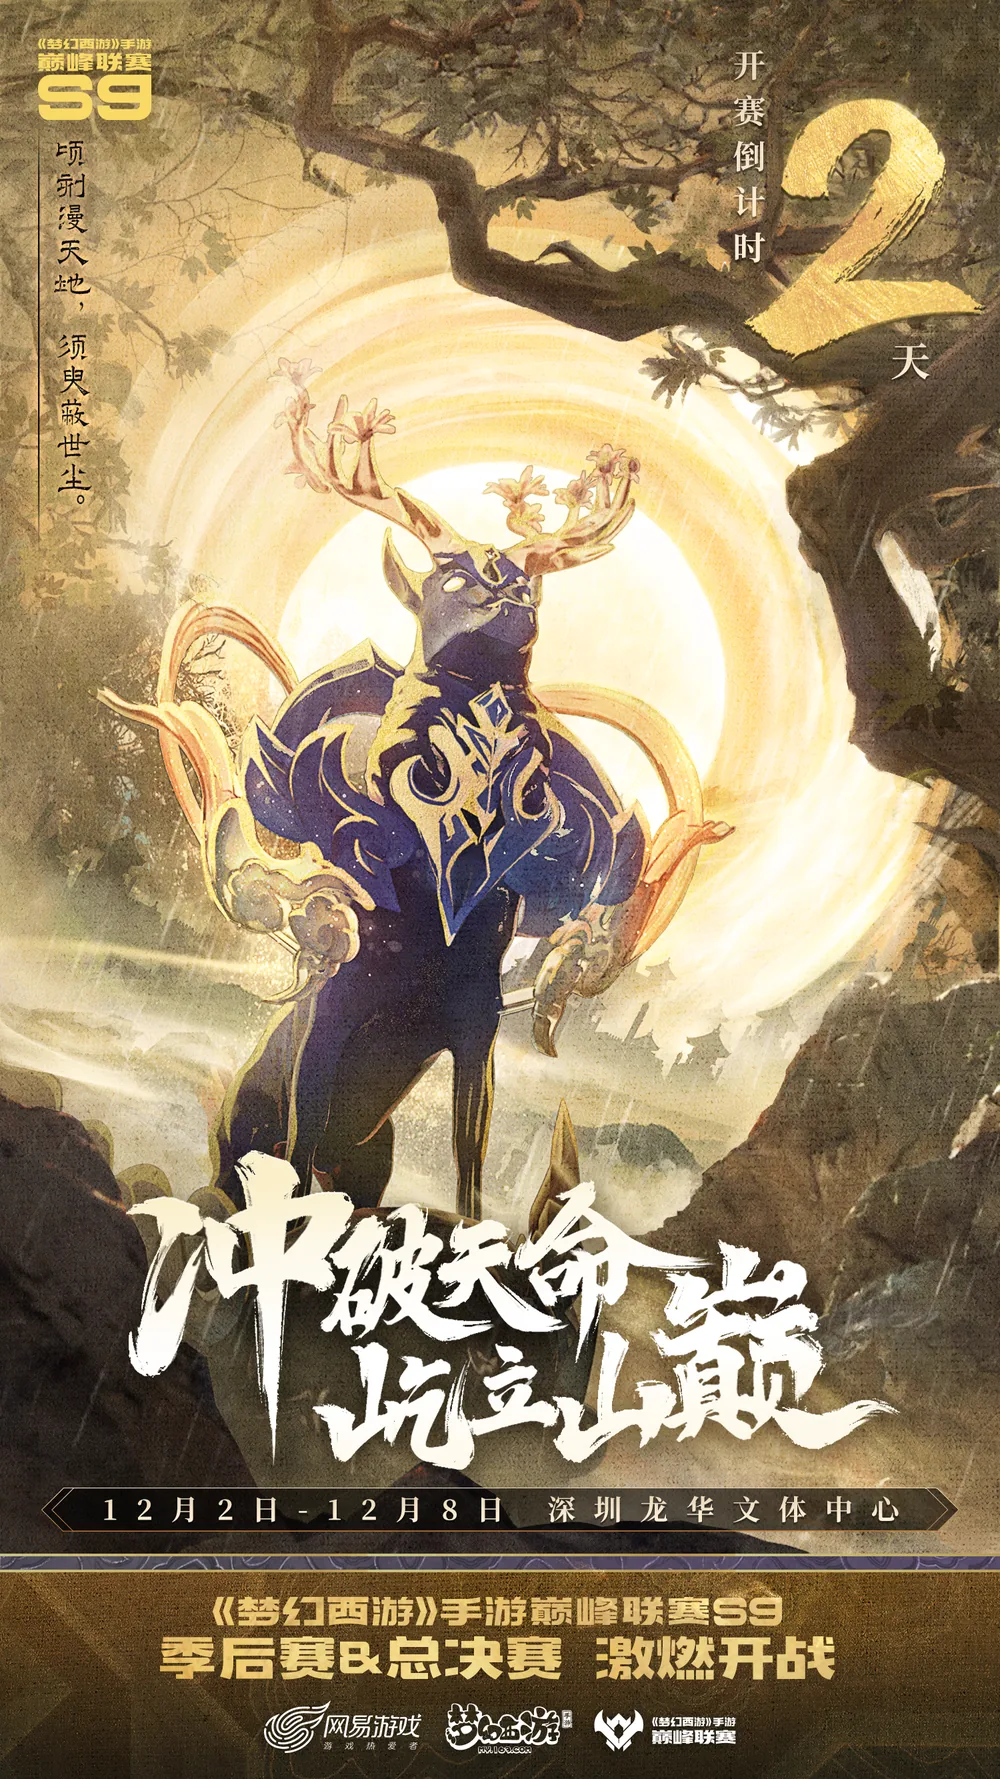
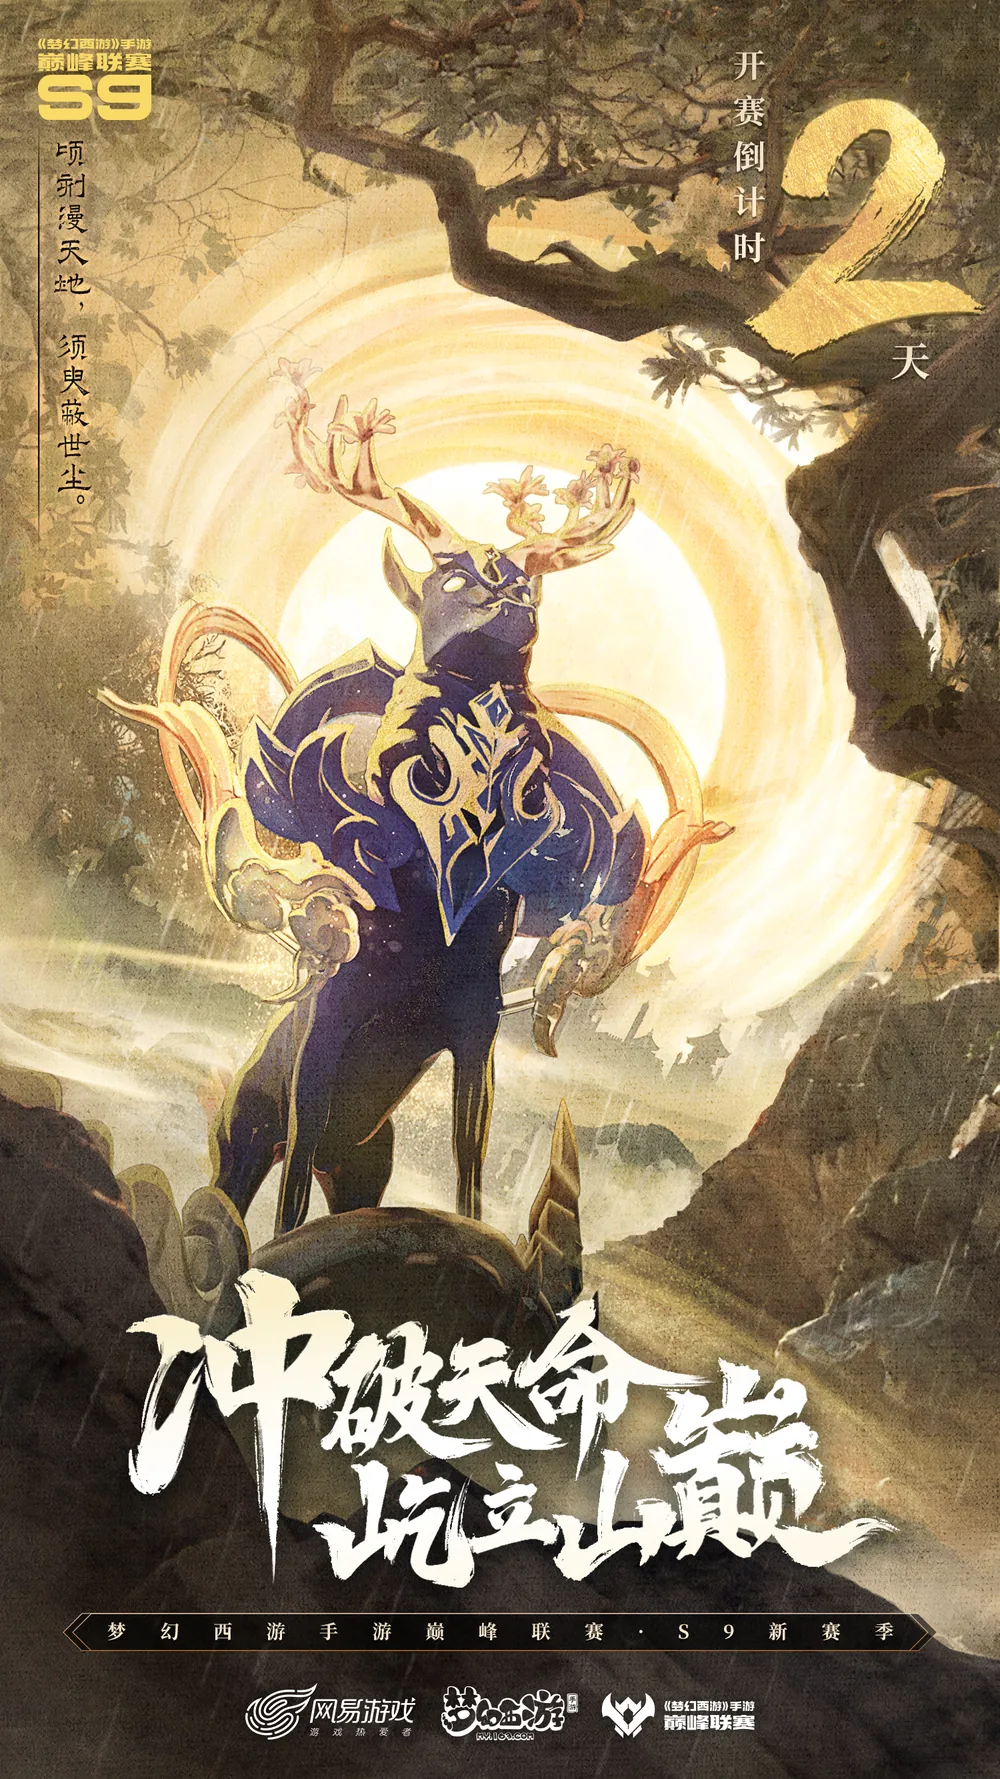
Swap in the S9 qualifier countdown posters

Changed region(s): [[0.0, 0.6492, 1.0, 1.0]]

diff --git a/work/campaign.html b/work/campaign.html
@@ -541,16 +541,16 @@
             <img src="../assets/campaign-mengshou-s11-kv.webp?v=20261112c" alt="《梦幻西游》手游 S11 联盟尊享大会主视觉：金色奖杯与联盟徽记墙" width="1920" height="1080" loading="lazy" decoding="async">
           </figure>
         </div>
-        <!-- 《梦幻西游》手游 S9 季后赛倒计时：三张一行 -->
+        <!-- 《梦幻西游》手游 S9 预选赛倒计时：三张一行 -->
         <div class="case-row" data-layout="portrait-3">
           <figure class="case-frame case-frame--image">
-            <img src="../assets/campaign-mengshou-s9-cd1.webp" alt="《梦幻西游》手游 S9 季后赛倒计时海报 · 1 天" width="1000" height="1779" loading="lazy" decoding="async">
+            <img src="../assets/campaign-mengshou-s9-cd1.webp?v=20261115a" alt="《梦幻西游》手游 S9 预选赛倒计时海报 · 1 天" width="1000" height="1779" loading="lazy" decoding="async">
           </figure>
           <figure class="case-frame case-frame--image">
-            <img src="../assets/campaign-mengshou-s9-cd2.webp" alt="《梦幻西游》手游 S9 季后赛倒计时海报 · 2 天" width="1000" height="1779" loading="lazy" decoding="async">
+            <img src="../assets/campaign-mengshou-s9-cd2.webp?v=20261115a" alt="《梦幻西游》手游 S9 预选赛倒计时海报 · 2 天" width="1000" height="1779" loading="lazy" decoding="async">
           </figure>
           <figure class="case-frame case-frame--image">
-            <img src="../assets/campaign-mengshou-s9-cd3.webp" alt="《梦幻西游》手游 S9 季后赛倒计时海报 · 3 天" width="1000" height="1779" loading="lazy" decoding="async">
+            <img src="../assets/campaign-mengshou-s9-cd3.webp?v=20261115a" alt="《梦幻西游》手游 S9 预选赛倒计时海报 · 3 天" width="1000" height="1779" loading="lazy" decoding="async">
           </figure>
         </div>
         <!-- 《梦幻西游》手游 S8 / S10 / S11 / S13 倒计时：四张一行 -->
